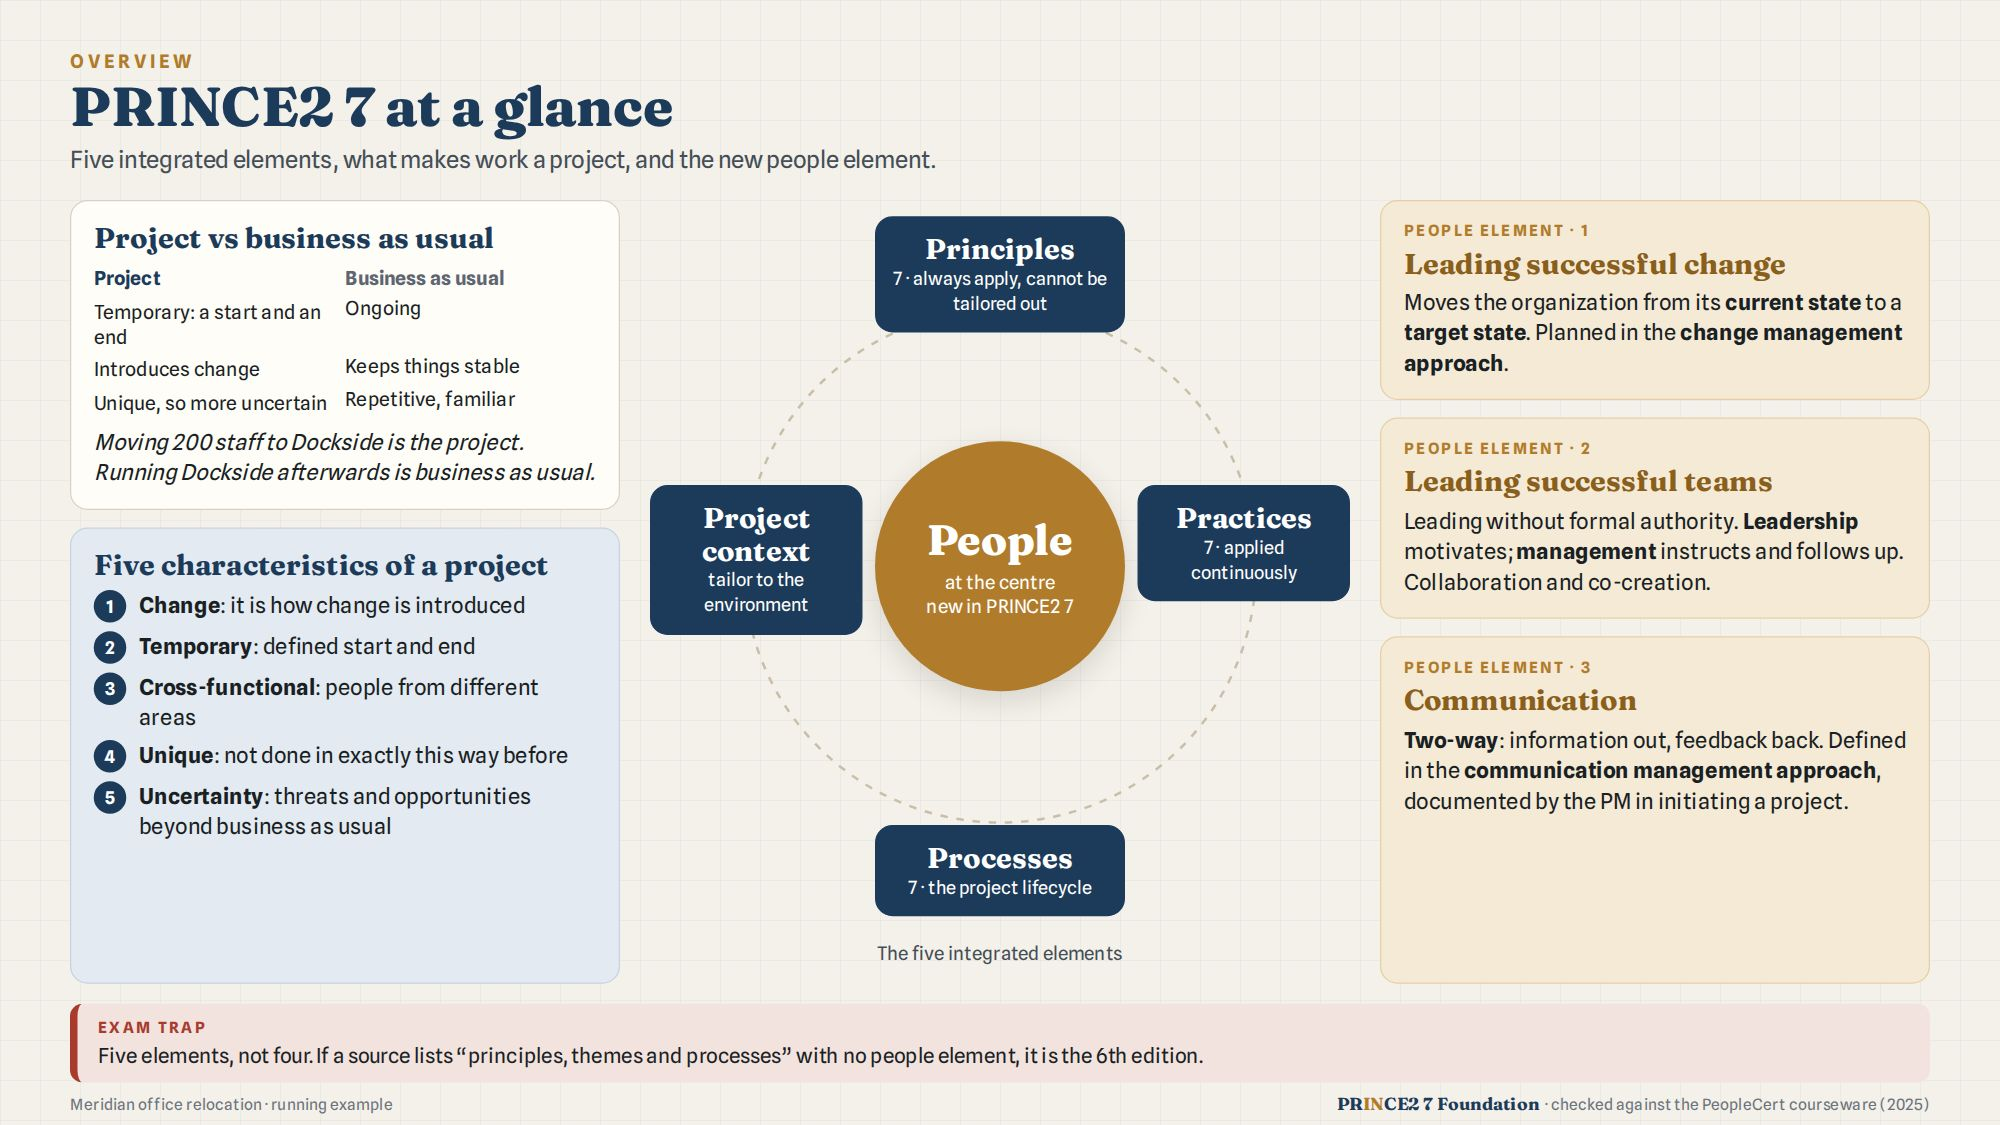
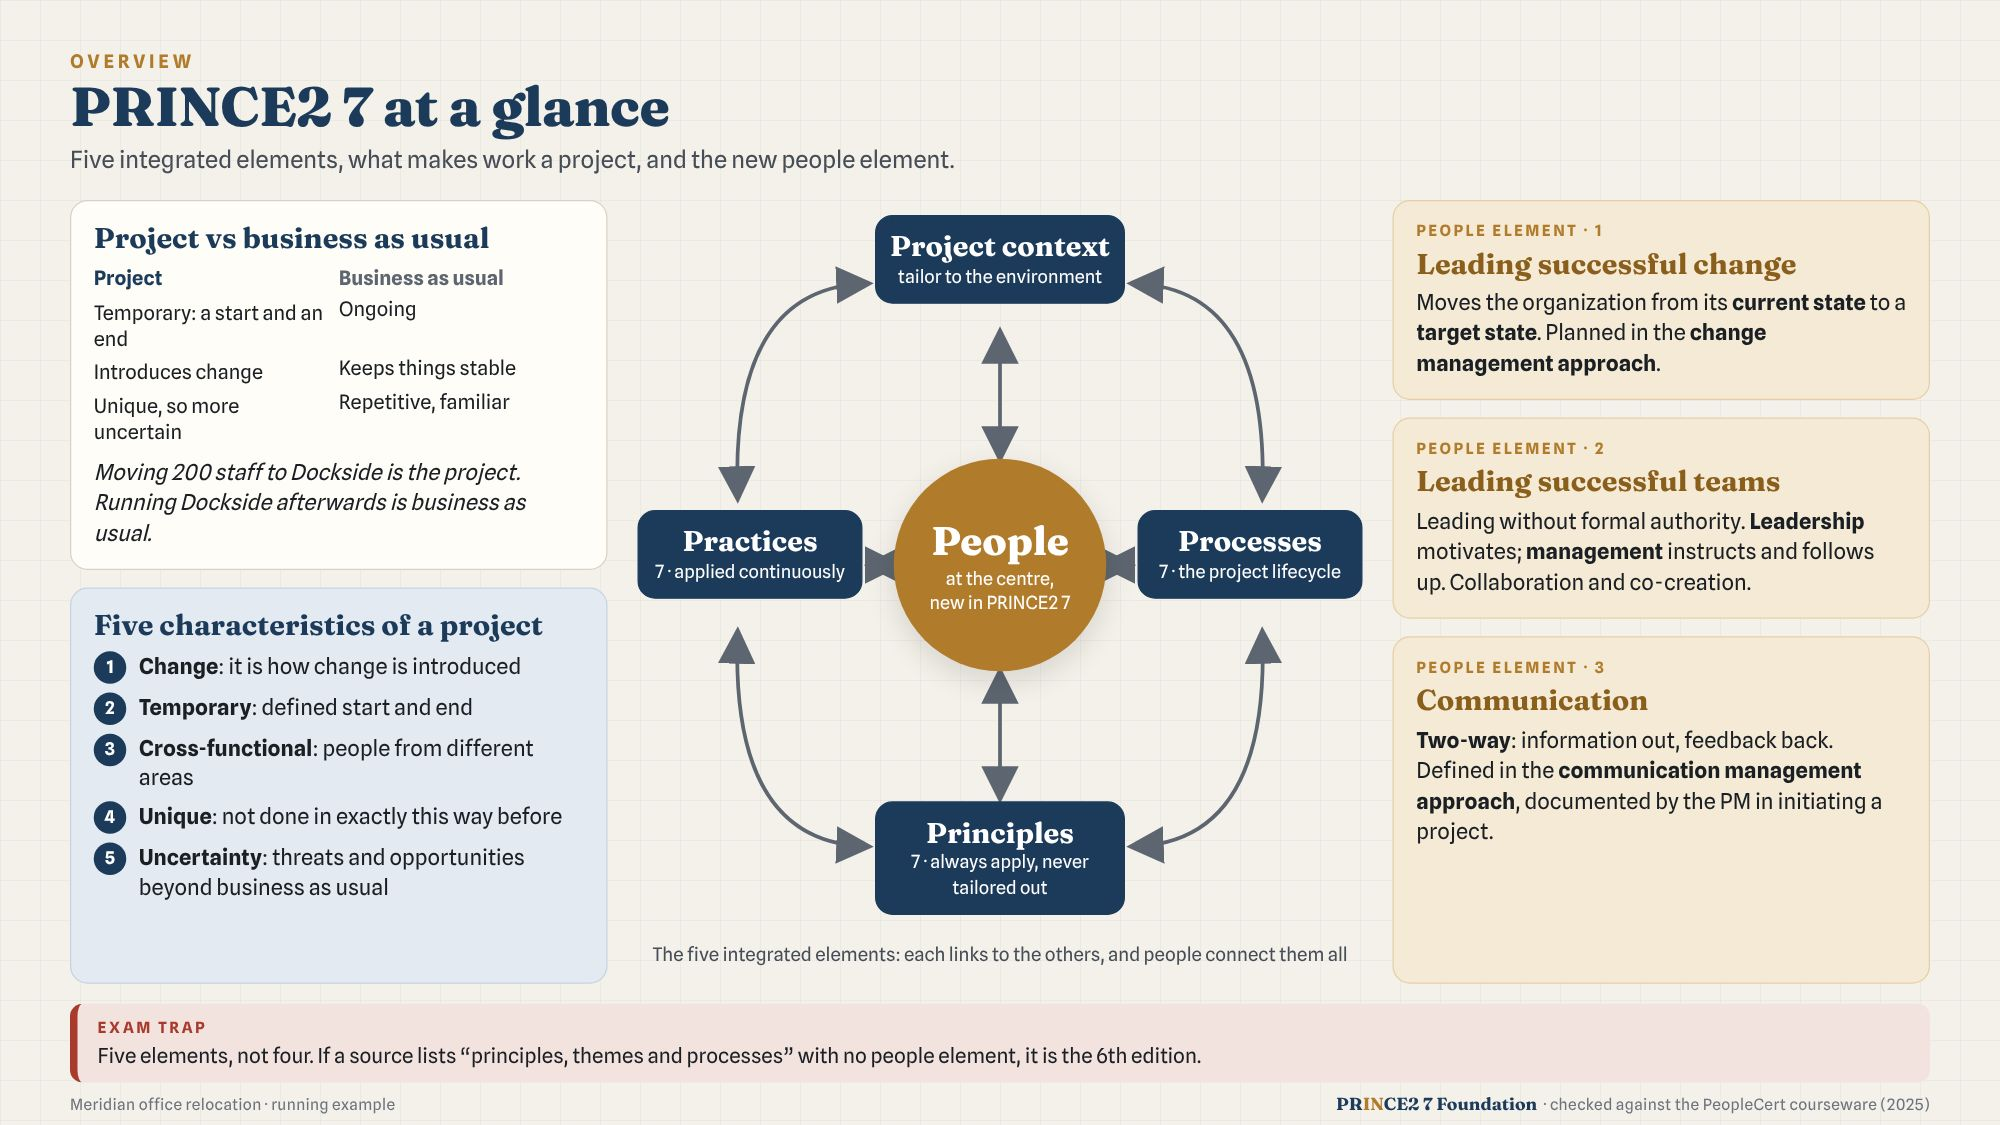
Add files via upload

diff --git a/index.html b/index.html
@@ -2878,7 +2878,8 @@ RENDER.videos = (c)=>{
 /* ---------------- VISUAL BLUEPRINT (image gallery + in-context embeds) ---------------- */
 const BP_PATH = 'img/blueprint/';
 const BLUEPRINTS = [
-  {f:'00-framework-overview', t:"PRINCE2 7 at a glance", d:"The five integrated elements, project versus business as usual, the five project characteristics and the three people areas."},
+  {f:'00-framework-overview', t:"PRINCE2 7 at a glance", d:"The five integrated elements and how they link through people, project versus business as usual, the five project characteristics and the three people areas."},
+  {f:'20-how-it-connects', t:"How it all connects", d:"Each principle, the practice that puts it into action, and the processes where it shows up."},
   {f:'01-title-walkthrough', t:"The Meridian relocation", d:"The running example: mandate, cast, stages, and the five moments the exam cares about."},
   {f:'03-process-timeline', t:"The process model across the lifecycle", d:"Which process happens in which stage. A stage boundary ends every stage except the final one."},
   {f:'02-org-levels', t:"Four levels of organization", d:"Business layer, directing, managing, delivering, plus assurance, support and change authority."},
@@ -2991,8 +2992,8 @@ const VV_SVG = {
   diagPlanning:['Product-based planning','Four steps, products first and activities second.'],
 };
 const VIDEO_VISUALS = {
-  '1': ['00-framework-overview','01-title-walkthrough','03-process-timeline'],
-  '2': ['00-framework-overview','03-process-timeline','10-exception-trigger','18-tolerance-cascade'],
+  '1': ['00-framework-overview','20-how-it-connects','01-title-walkthrough','03-process-timeline'],
+  '2': ['20-how-it-connects','00-framework-overview','03-process-timeline','10-exception-trigger','18-tolerance-cascade'],
   '3': ['00-framework-overview','02-org-levels','12-value-chain','16-risk-responses','17-issue-types','18-tolerance-cascade','19-quality-trail'],
   '3a':['00-framework-overview','diagChangeTransition'],
   '3b':['12-value-chain','11-stage-boundary','10-exception-trigger'],
